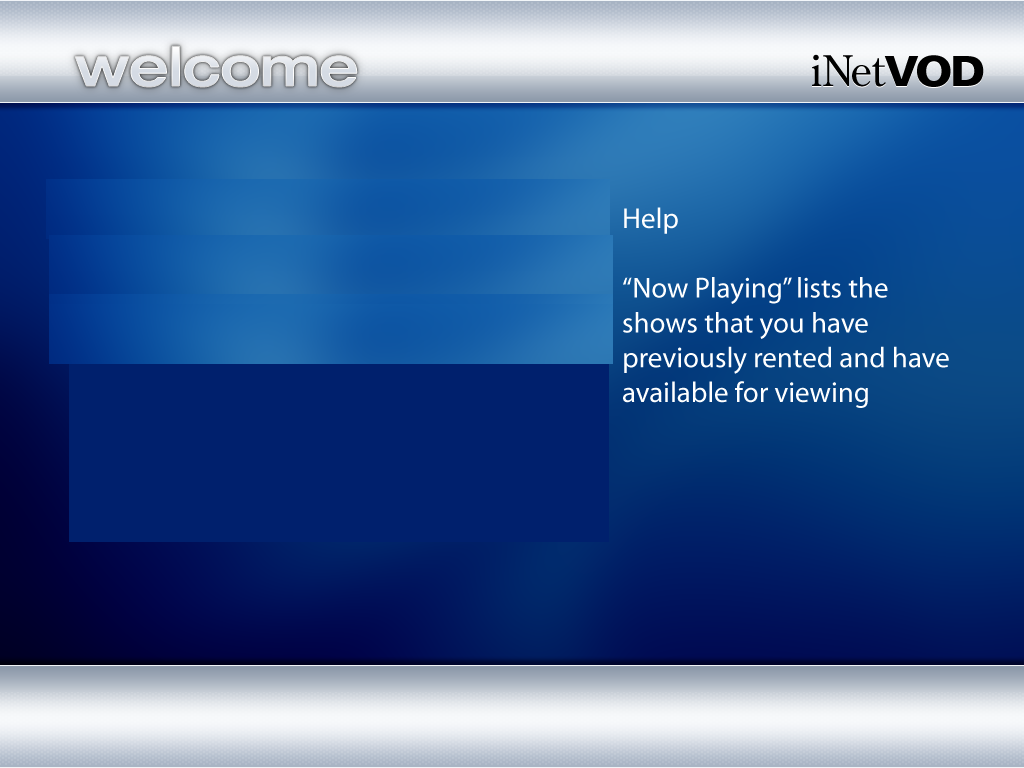
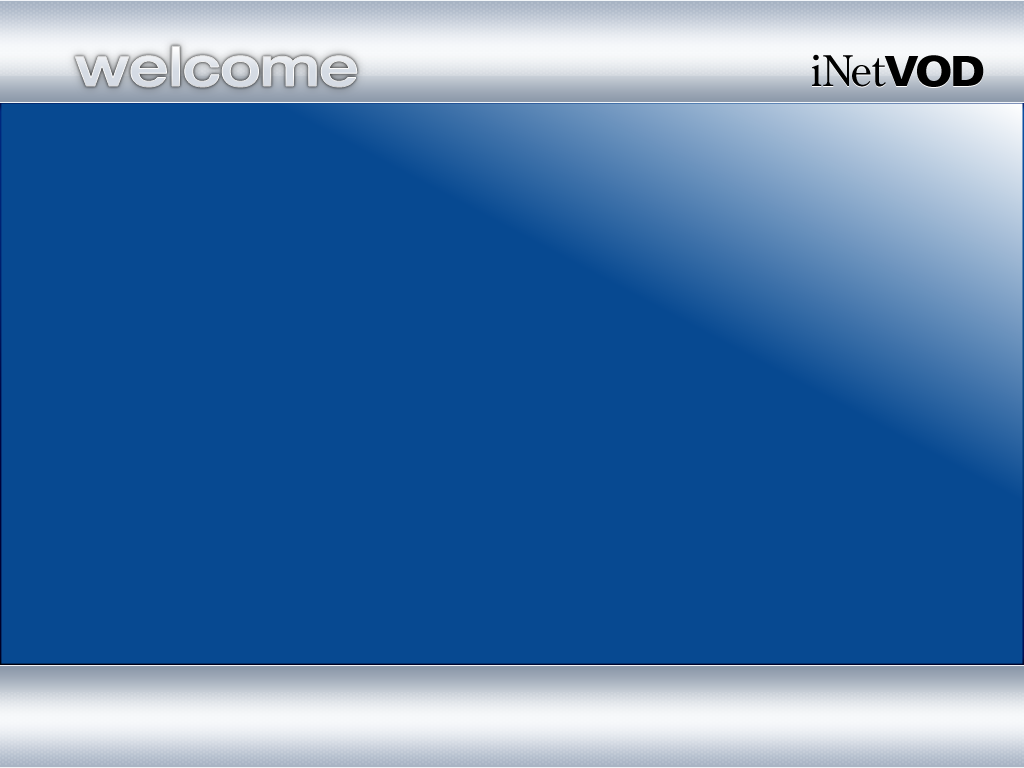
mce: Added TextControl. Updated Control with show() method. Updated NowPlayingScreen and SearchResultsScreen to show "nothing found" messages. Removed text for background image.

diff --git a/resources/main.html b/resources/main.html
@@ -17,6 +17,7 @@
 <script language="javascript" src="core/ListControlRow.js"></script>
 <script language="javascript" src="core/ListControlRowItem.js"></script>
 <script language="javascript" src="core/CheckControl.js"></script>
+<script language="javascript" src="core/TextControl.js"></script>
 <script language="javascript" src="core/XmlDataReader.js"></script>
 <script language="javascript" src="core/XmlDataWriter.js"></script>
 <script language="javascript" src="core/WaitScreen.js"></script>
@@ -382,51 +383,51 @@ No shows were found matching your search criteria.  Please try again.<br>
 		></td>
 	</tr>
 	<tr><td id="Show002_ShowList_0" class="listCtrRow952_normal"
-		><span id="Show002_ShowList_0_Show" class="listCtrItem">An American Werewolf in London</span
-		><span id="Show002_ShowList_0_Provider" class="listCtrItem">VOD Flicks</span
-		><span id="Show002_ShowList_0_Until" class="listCtrItem">Wed 12p</span
+		><span id="Show002_ShowList_0_Show" class="listCtrItem"></span
+		><span id="Show002_ShowList_0_Provider" class="listCtrItem"></span
+		><span id="Show002_ShowList_0_Until" class="listCtrItem"></span
 		></td>
 	</tr>
 	<tr><td id="Show002_ShowList_1" class="listCtrRow952_normal"
-		><span id="Show002_ShowList_1_Show" class="listCtrItem">An American Werewolf in London</span
-		><span id="Show002_ShowList_1_Provider" class="listCtrItem">VOD Flicks</span
-		><span id="Show002_ShowList_1_Until" class="listCtrItem">Mon 4pm</span
+		><span id="Show002_ShowList_1_Show" class="listCtrItem"></span
+		><span id="Show002_ShowList_1_Provider" class="listCtrItem"></span
+		><span id="Show002_ShowList_1_Until" class="listCtrItem"></span
 		></td>
 	</tr>
 	<tr><td id="Show002_ShowList_2" class="listCtrRow952_normal"
-		><span id="Show002_ShowList_2_Show" class="listCtrItem">An American Werewolf in London</span
-		><span id="Show002_ShowList_2_Provider" class="listCtrItem">VOD Flicks</span
-		><span id="Show002_ShowList_2_Until" class="listCtrItem">Mon 4pm</span
+		><span id="Show002_ShowList_2_Show" class="listCtrItem"></span
+		><span id="Show002_ShowList_2_Provider" class="listCtrItem"></span
+		><span id="Show002_ShowList_2_Until" class="listCtrItem"></span
 		></td>
 	</tr>
 	<tr><td id="Show002_ShowList_3" class="listCtrRow952_normal"
-		><span id="Show002_ShowList_3_Show" class="listCtrItem">An American Werewolf in London</span
-		><span id="Show002_ShowList_3_Provider" class="listCtrItem">VOD Flicks</span
-		><span id="Show002_ShowList_3_Until" class="listCtrItem">Mon 4pm</span
+		><span id="Show002_ShowList_3_Show" class="listCtrItem"></span
+		><span id="Show002_ShowList_3_Provider" class="listCtrItem"></span
+		><span id="Show002_ShowList_3_Until" class="listCtrItem"></span
 		></td>
 	</tr>
 	<tr><td id="Show002_ShowList_4" class="listCtrRow952_normal"
-		><span id="Show002_ShowList_4_Show" class="listCtrItem">An American Werewolf in London</span
-		><span id="Show002_ShowList_4_Provider" class="listCtrItem">VOD Flicks</span
-		><span id="Show002_ShowList_4_Until" class="listCtrItem">Mon 4pm</span
+		><span id="Show002_ShowList_4_Show" class="listCtrItem"></span
+		><span id="Show002_ShowList_4_Provider" class="listCtrItem"></span
+		><span id="Show002_ShowList_4_Until" class="listCtrItem"></span
 		></td>
 	</tr>
 	<tr><td id="Show002_ShowList_5" class="listCtrRow952_normal"
-		><span id="Show002_ShowList_5_Show" class="listCtrItem">An American Werewolf in London</span
-		><span id="Show002_ShowList_5_Provider" class="listCtrItem">VOD Flicks</span
-		><span id="Show002_ShowList_5_Until" class="listCtrItem">Mon 4pm</span
+		><span id="Show002_ShowList_5_Show" class="listCtrItem"></span
+		><span id="Show002_ShowList_5_Provider" class="listCtrItem"></span
+		><span id="Show002_ShowList_5_Until" class="listCtrItem"></span
 		></td>
 	</tr>
 	<tr><td id="Show002_ShowList_6" class="listCtrRow952_normal"
-		><span id="Show002_ShowList_6_Show" class="listCtrItem">An American Werewolf in London</span
-		><span id="Show002_ShowList_6_Provider" class="listCtrItem">VOD Flicks</span
-		><span id="Show002_ShowList_6_Until" class="listCtrItem">Mon 4pm</span
+		><span id="Show002_ShowList_6_Show" class="listCtrItem"></span
+		><span id="Show002_ShowList_6_Provider" class="listCtrItem"></span
+		><span id="Show002_ShowList_6_Until" class="listCtrItem"></span
 		></td>
 	</tr>
 	<tr><td id="Show002_ShowList_7" class="listCtrRow952_normal"
-		><span id="Show002_ShowList_7_Show" class="listCtrItem">An American Werewolf in London</span
-		><span id="Show002_ShowList_7_Provider" class="listCtrItem">VOD Flicks</span
-		><span id="Show002_ShowList_7_Until" class="listCtrItem">Mon 4pm</span
+		><span id="Show002_ShowList_7_Show" class="listCtrItem"></span
+		><span id="Show002_ShowList_7_Provider" class="listCtrItem"></span
+		><span id="Show002_ShowList_7_Until" class="listCtrItem"></span
 		></td>
 	</tr>
 </table>

diff --git a/resources/core/TextControl.js b/resources/core/TextControl.js
@@ -1,0 +1,29 @@
+/* TextControl */
+
+/******************************************************************************/
+/******************************************************************************/
+
+TextControl.prototype = new Control();
+TextControl.prototype.constructor = TextControl;
+
+/******************************************************************************/
+
+function TextControl(/*string*/ controlID, /*string*/ screenID)
+{
+	this.ControlID = controlID;
+	this.ScreenID = screenID;
+	this.fUIObj = document.getElementById(controlID);
+	if(this.fUIObj == null)
+		throw "TextControl::ctor(controlID): Can't find UI object, ID(" + controlID + ")";
+	this.fFocused = false;
+
+	this.setFocus(false);
+	this.show(true);
+}
+
+/******************************************************************************/
+
+/*boolean*/ TextControl.prototype.canFocus = function() { return false; }
+
+/******************************************************************************/
+/******************************************************************************/

diff --git a/resources/nowPlaying/NowPlayingScreen.js b/resources/nowPlaying/NowPlayingScreen.js
@@ -35,9 +35,19 @@ function NowPlayingScreen(/*Array*/ rentedShowSearchList)
 	oRowItemList.push(new ListControlRowItem("Until", 172));
 
 	this.fContainerControl = new ContainerControl(this.ScreenID, 30, 120);
-	this.fContainerControl.newControl(new RentedShowListControl(NowPlayingScreen.ShowListID,
-		this.ScreenID, 8, oRowItemList, rentedShowSearchList));
-//	this.fContainerControl.newControl(new ButtonControl(NowPlayingScreen.NoShowsTextID, this.ScreenID));
+
+	var oControl;
+
+	oControl = new RentedShowListControl(NowPlayingScreen.ShowListID, this.ScreenID,
+		8, oRowItemList, rentedShowSearchList);
+	if(rentedShowSearchList.length > 0)
+		this.fContainerControl.newControl(oControl);
+	oControl.show(rentedShowSearchList.length > 0);
+
+	oControl = new TextControl(NowPlayingScreen.NoShowsTextID, this.ScreenID);
+	if(rentedShowSearchList.length == 0)
+		this.fContainerControl.newControl(oControl);
+	oControl.show(rentedShowSearchList.length == 0);
 }
 
 /******************************************************************************/

diff --git a/resources/search/SearchResultsScreen.js b/resources/search/SearchResultsScreen.js
@@ -32,9 +32,19 @@ function SearchResultsScreen(/*Array*/ showSearchList)
 	oRowItemList.push(new ListControlRowItem("Cost", 120));
 
 	this.fContainerControl = new ContainerControl(this.ScreenID, 30, 120);
-	this.fContainerControl.newControl(new ShowSearchListControl(SearchResultsScreen.ShowListID,
-		this.ScreenID, 8, oRowItemList, showSearchList));
-//	this.fContainerControl.newControl(new ButtonControl(SearchResultsScreen.NoShowsTextID, this.ScreenID));
+
+	var oControl;
+
+	oControl = new ShowSearchListControl(SearchResultsScreen.ShowListID, this.ScreenID,
+		8, oRowItemList, showSearchList);
+	if(showSearchList.length > 0)
+		this.fContainerControl.newControl(oControl);
+	oControl.show(showSearchList.length > 0);
+
+	oControl = new TextControl(SearchResultsScreen.NoShowsTextID, this.ScreenID);
+	if(showSearchList.length == 0)
+		this.fContainerControl.newControl(oControl);
+	oControl.show(showSearchList.length == 0);
 }
 
 /******************************************************************************/

diff --git a/resources/core/Control.js b/resources/core/Control.js
@@ -20,6 +20,13 @@ function Control()
 
 /******************************************************************************/
 
+/*void*/ Control.prototype.show = function(show)
+{
+	this.fUIObj.style.display = show ? 'inline' : 'none';
+}
+
+/******************************************************************************/
+
 /*boolean*/ Control.prototype.canFocus = function() { return true; }
 /*boolean*/ Control.prototype.hasFocus = function() { return this.fFocused; }
 /*void*/ Control.prototype.setFocus = function(/*boolean*/ set)
